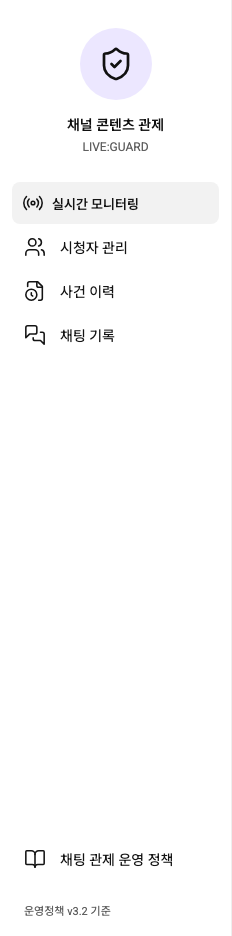
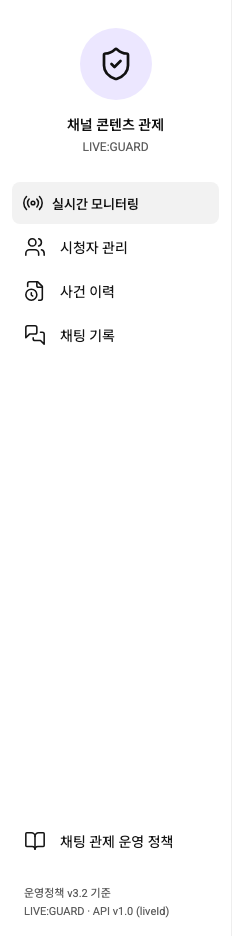
style: move API version label beneath sidebar policy version

Changed region(s): [[0.0905, 0.8675, 0.3621, 0.9915], [0.3922, 0.8675, 0.7543, 0.9915], [0.5431, 0.9605, 0.7241, 0.9915]]

diff --git a/src/StudioScreen.vue b/src/StudioScreen.vue
@@ -352,7 +352,7 @@ const dictRows: { name: string; words: string[]; result: string }[] = [
  <button title="채팅 기록" aria-label="채팅 기록" :class="{active: page==='chats'}" :aria-current="page==='chats' ? 'page' : undefined" @click="goto('chats')"><MessagesSquare :size="22" :stroke-width="1.8"/><span>채팅 기록</span></button>
           <button class="sidebar-policy-link" title="채팅 관제 운영 정책" aria-label="채팅 관제 운영 정책" :class="{active: page==='policy'}" :aria-current="page==='policy' ? 'page' : undefined" @click="goto('policy')"><BookOpen :size="22" :stroke-width="1.8"/><span>채팅 관제 운영 정책</span></button>
         </nav>
-        <div class="sidebar-foot">운영정책 v3.2 기준</div>
+        <div class="sidebar-foot"><span>운영정책 v3.2 기준</span><span>LIVE:GUARD · API v1.0 (liveId)</span></div>
       </aside>
       <div class="workspace">
         <main class="main-content">
@@ -468,7 +468,7 @@ const dictRows: { name: string; words: string[]; result: string }[] = [
               <div v-if="archiveMore" class="chat-db-more"><button type="button" :disabled="archiveLoading" @click="emit('loadOlder')">{{archiveLoading ? '불러오는 중…' : '이전 채팅 더 불러오기'}}</button></div>
             </section>
           </template>
-          <footer class="dashboard-footer"><span>LIVE:GUARD · API v1.0 (liveId)</span><span>프론트는 <code>/api/**</code>만 사용합니다. <code>/internal/**</code>·MCP·Agent 호출은 백엔드 담당입니다.</span></footer>
+          <footer class="dashboard-footer"><span>프론트는 <code>/api/**</code>만 사용합니다. <code>/internal/**</code>·MCP·Agent 호출은 백엔드 담당입니다.</span></footer>
         </main>
       </div>
     </div>

diff --git a/src/style.css b/src/style.css
@@ -1402,3 +1402,4 @@ code{font-family:'Roboto Mono',ui-monospace,Consolas,monospace}
 .studio-shell .side-nav{display:flex;flex-direction:column;flex:1}
 .studio-shell .side-nav button,.studio-shell .sidebar-channel,.studio-shell .sidebar-foot{flex-shrink:0}
 .studio-shell .side-nav .sidebar-policy-link{margin-top:auto}
+.studio-shell .sidebar-foot{flex-direction:column;align-items:flex-start;gap:5px}

diff --git a/docs/collapsed-icon-navigation.md b/docs/collapsed-icon-navigation.md
@@ -29,3 +29,5 @@ YouTube Studio 참고 화면처럼 데스크톱 메뉴를 접어도 아이콘만
 ![실제 접힌 메뉴](evidence/policy-navigation/compact-actual.png)
 
 프로덕션 빌드·관련 브라우저 테스트 2/2 통과. localhost:3000 frontend 재빌드 후 두 상태 모두 정책 항목이 하단에 있는 것을 확인했습니다.
+
+`LIVE:GUARD · API v1.0 (liveId)`는 본문 푸터에서 서랍 하단 ‘운영정책 v3.2 기준’ 바로 아래로 옮겼습니다. 접힌 아이콘 메뉴에서는 두 문구 모두 숨깁니다. 프로덕션 빌드 및 localhost:3000 frontend 재빌드·실제 서랍 표시 확인 완료.
